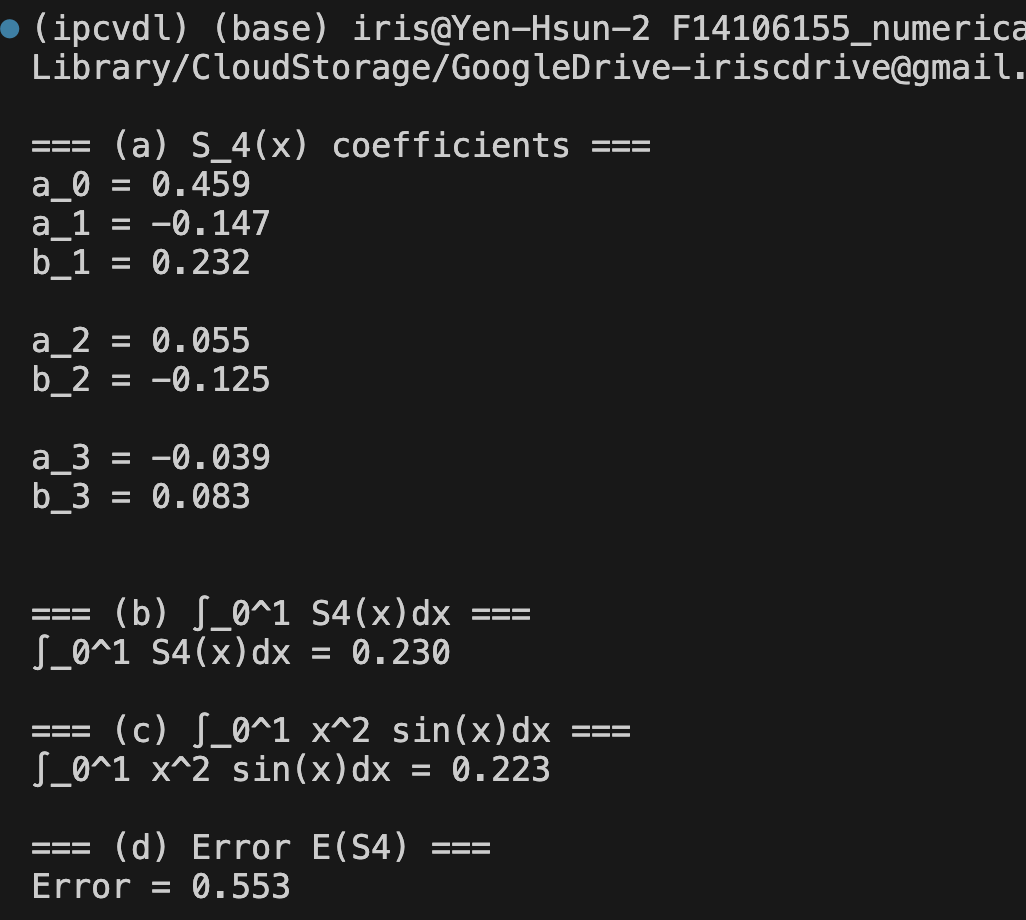
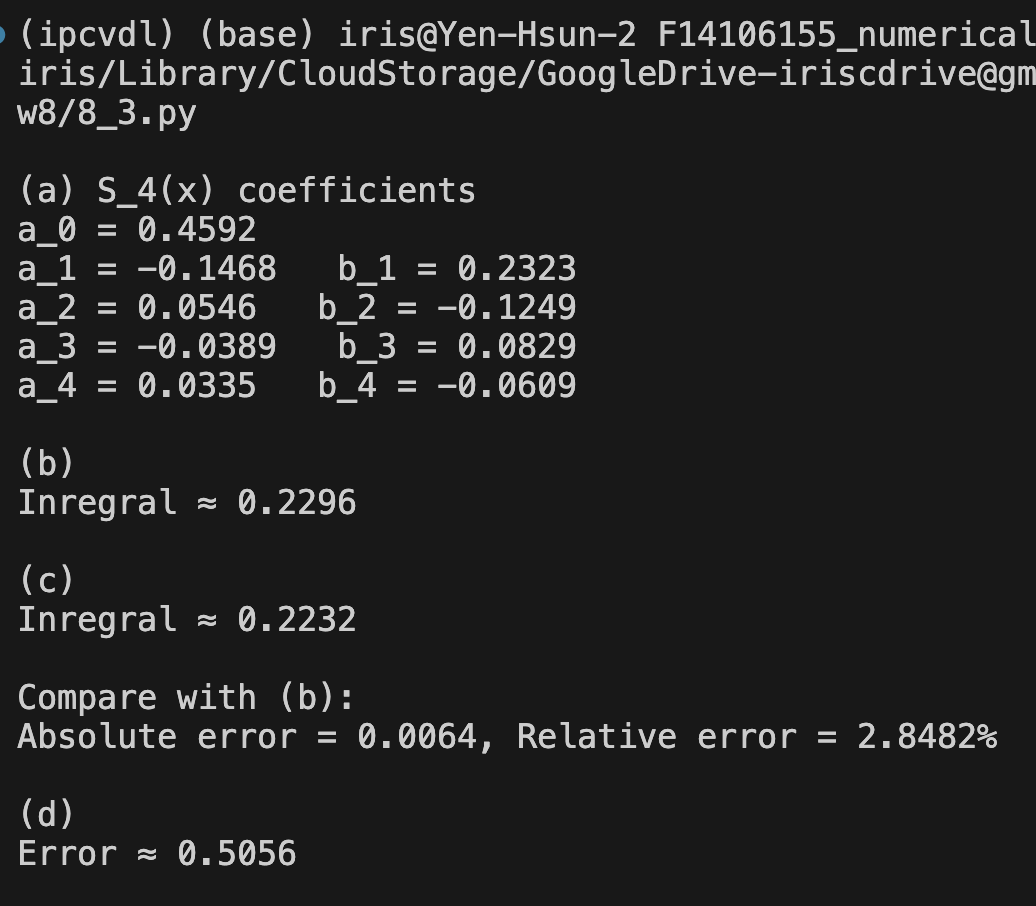
修改8_3

diff --git a/8_3.py b/8_3.py
@@ -2,7 +2,7 @@ import numpy as np
 import scipy.integrate as integrate
 
 m = 16
-n = 4 
+n = 5 
 z_i = np.linspace(-np.pi, np.pi, 2 * m)
 x_i = (z_i + np.pi) / (2 * np.pi)  
 f_i = x_i**2 * np.sin(x_i)         # f(x_i) = x^2 sin x
@@ -27,6 +27,8 @@ S4_integral, _ = integrate.quad(S4, 0, 1)
 
 # (c) 真正的 ∫_0^1 x^2 sin x dx
 actual_integral, _ = integrate.quad(lambda x: x**2 * np.sin(x), 0, 1)
+diff = abs(S4_integral - actual_integral)
+rel_error = diff / abs(actual_integral)
 
 # (d) 誤差 E(S4) 
 S4_vals = S4(x_i)
@@ -34,19 +36,21 @@ error = np.sum((f_i - S4_vals) ** 2)
 
 # 輸出
 print()
-print("=== (a) S_4(x) coefficients ===")
-for k in range(n):
-    print(f"a_{k} = {a_k[k]:.3f}")
-    if k != 0:
-        print(f"b_{k} = {b_k[k]:.3f}")
-        print()
+print("(a) S_4(x) coefficients")
+print(f"a_0 = {a_k[0]:.4f}")
+for k in range(1, n):
+    print(f"a_{k} = {a_k[k]:.4f}   b_{k} = {b_k[k]:.4f}")
 
-print("\n=== (b) ∫_0^1 S4(x)dx ===")
-print(f"∫_0^1 S4(x)dx = {S4_integral:.3f}")
+print("\n(b)")
+print(f"Inregral ≈ {S4_integral:.4f}")
 
-print("\n=== (c) ∫_0^1 x^2 sin(x)dx ===")
-print(f"∫_0^1 x^2 sin(x)dx = {actual_integral:.3f}")
+print("\n(c)")
+print(f"Inregral ≈ {actual_integral:.4f}")
+print()
+print("Compare with (b):")
+print(f"Absolute error = {diff:.4f}, Relative error = {rel_error:.4%}")
 
-print("\n=== (d) Error E(S4) ===")
-print(f"Error = {error:.3f}")
+
+print("\n(d)")
+print(f"Error ≈ {error:.4f}")
 print()

diff --git a/8_2.py b/8_2.py
@@ -35,6 +35,6 @@ sse, _ = integrate.quad(error_function, -1, 1)
 
 
 print()
-print(f"P2(x) = {coeffs[0]:.5f} + {coeffs[1]:.5f}x + ({coeffs[2]:.5f})x^2")
+print(f"P2(x) ≈ {coeffs[0]:.5f} + {coeffs[1]:.5f}x + ({coeffs[2]:.5f})x^2")
 print(f"error = {sse:.5f}")
 print()
